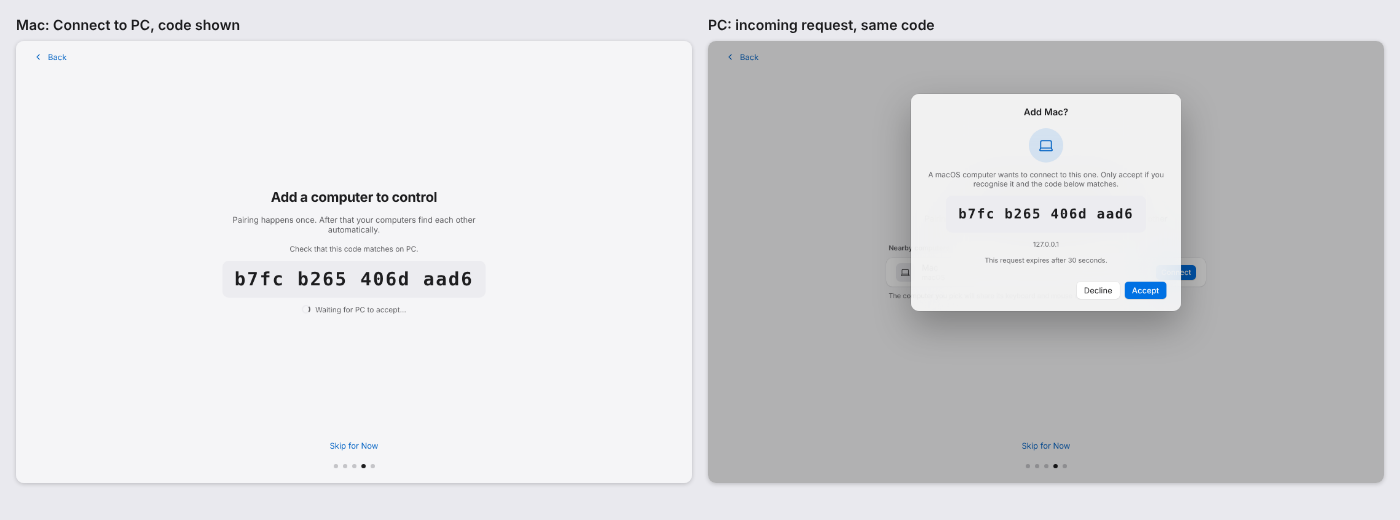
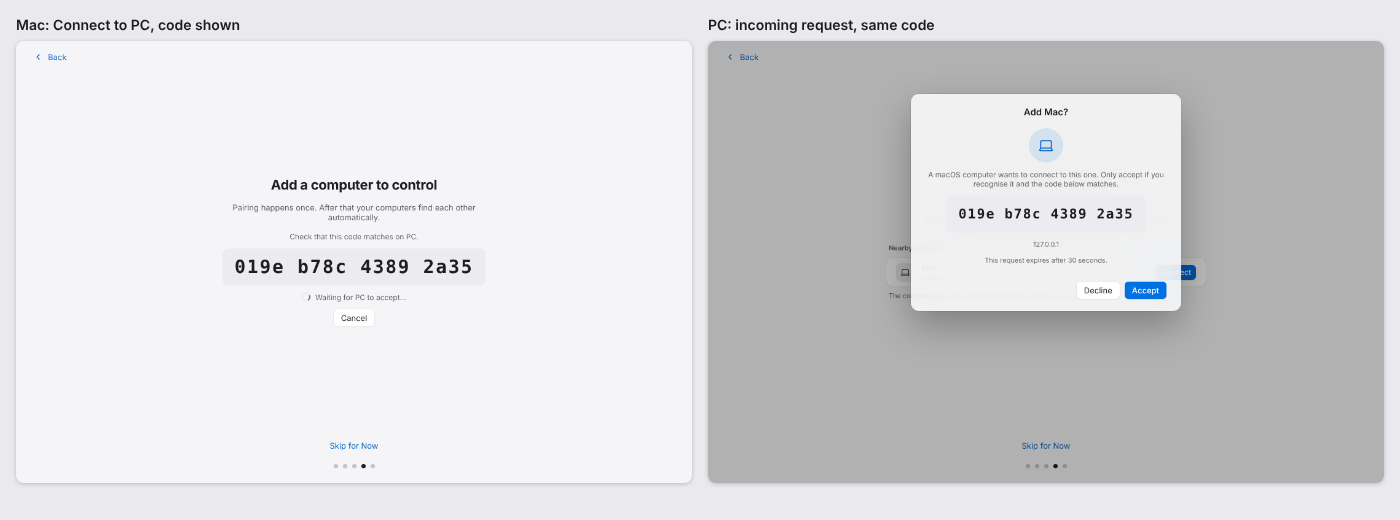
test(ui): live journey for link loss, Stop Trying and Try Again
Claude-Session: https://claude.ai/code/session_01VqG8KjxmVRiXuMMAxn8FU4

Changed region(s): [[0.1536, 0.3385, 0.3379, 0.6154], [0.6757, 0.4, 0.8293, 0.4308]]

diff --git a/app/ui/e2e-live/disconnect.spec.ts b/app/ui/e2e-live/disconnect.spec.ts
@@ -1,0 +1,85 @@
+import { composite, expect, test } from './fixtures';
+import { keyLog } from './harness';
+
+test.use({
+  world: {
+    paired: true,
+    devices: [
+      { name: 'Mac', os: 'mac', role: 'controller' },
+      { name: 'PC', os: 'win', role: 'controlled' },
+    ],
+  },
+});
+
+test('5. losing the PC: Reconnecting, Stop Trying, Not connected, Try Again, back', async ({
+  live,
+  browser,
+}) => {
+  const mac = live.daemon('Mac');
+  const macPage = await live.open('Mac');
+  const pcPage = await live.open('PC');
+  const banner = macPage.getByTestId('banner-region');
+
+  // Drop the link while the Mac is driving the PC.
+  await macPage.getByRole('button', { name: 'Switch to PC' }).click();
+  await expect(macPage.getByTestId('status-title')).toHaveText('Controlling PC');
+  await live.disconnect('PC');
+
+  await expect(banner).toContainText('Reconnecting…');
+  await expect(banner).toContainText('Lost the connection to PC');
+  await expect(macPage.getByRole('status', { name: /Connection: Reconnecting/ })).toBeVisible();
+  // Link loss sends the controller home; its keyboard works locally again.
+  await expect(macPage.getByTestId('status-title')).toHaveText('Your keyboard and mouse are on Mac');
+  expect(mac.linkState()).toBe('reconnecting');
+  await mac.clearIo();
+  await mac.tap('L');
+  await expect
+    .poll(async () => keyLog((await mac.virtualIo()).delivered_locally))
+    .toEqual(['down L', 'up L']);
+  expect((await mac.virtualIo()).suppressed).toBe(false);
+  // The PC's own page lost its engine.
+  await expect(pcPage.getByTestId('banner-region')).toContainText('Flow isn’t responding');
+  // ...and does not keep showing its last, stale state as if it were current.
+  await expect(pcPage.getByTestId('status-title')).toHaveText('Can’t tell who’s in control right now');
+  await expect(pcPage.getByTestId('home')).toContainText('Not responding');
+  await expect(pcPage.getByRole('button', { name: 'Release control' })).toHaveCount(0);
+  await composite(browser, '05-reconnecting.png', [
+    { page: macPage, label: 'Mac: PC lost, reconnecting' },
+    { page: pcPage, label: 'PC: its engine is gone' },
+  ]);
+
+  await banner.getByRole('button', { name: 'Stop Trying' }).click();
+  await expect(banner).toContainText('Not connected');
+  await expect.poll(() => mac.linkState()).toBe('disconnected');
+
+  // Try Again while the PC is still away: the Mac is looking for it again.
+  await banner.getByRole('button', { name: 'Try Again' }).click();
+  await expect.poll(() => mac.linkState()).toBe('connecting');
+  await expect(macPage.getByRole('status', { name: /Connection: Connecting/ })).toBeVisible();
+
+  await live.reconnect('PC');
+  await expect(banner).toBeEmpty({ timeout: 20_000 });
+  await expect.poll(() => mac.linkState()).toBe('connected');
+  await expect(macPage.getByRole('status', { name: 'Connection: Connected' })).toBeVisible();
+  await expect(pcPage.getByTestId('status-title')).toHaveText('This computer is ready');
+
+  // And it works again.
+  const pc = live.daemon('PC');
+  await macPage.getByRole('button', { name: 'Switch to PC' }).click();
+  await expect(pcPage.getByTestId('status-title')).toHaveText('Mac is controlling this computer');
+  await pc.clearIo();
+  await mac.tap('M');
+  await expect.poll(async () => keyLog((await pc.virtualIo()).injected)).toEqual(['down M', 'up M']);
+});
+
+test('5b. with nobody stopping it, the controller reconnects on its own', async ({ live }) => {
+  const mac = live.daemon('Mac');
+  const macPage = await live.open('Mac');
+  const banner = macPage.getByTestId('banner-region');
+  await live.disconnect('PC');
+  await expect(banner).toContainText('Reconnecting…');
+  await live.reconnect('PC');
+  await expect(banner).toBeEmpty({ timeout: 20_000 });
+  await expect.poll(() => mac.linkState()).toBe('connected');
+  await expect(macPage.getByRole('button', { name: 'Switch to PC' })).toBeEnabled();
+});
